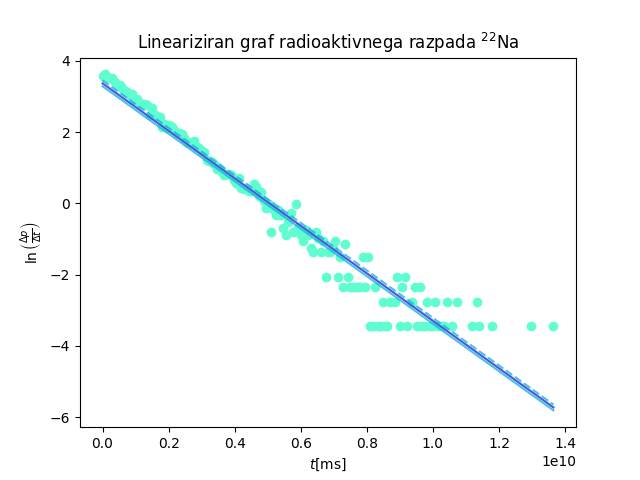
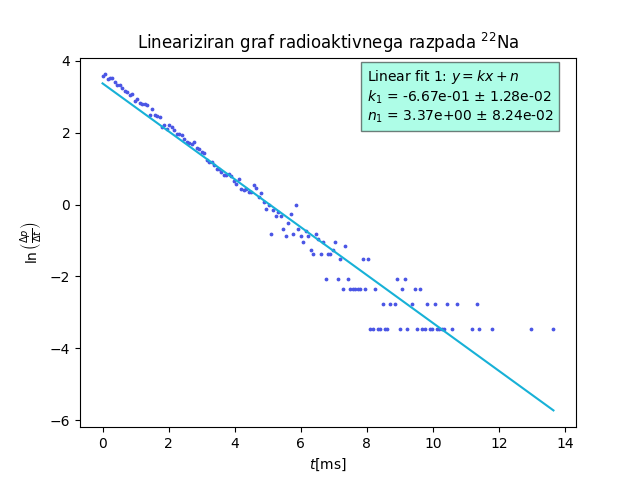
graf radioaktivnega razpada

diff --git a/08gammagamma/source/obdelovanja_08gg.py b/08gammagamma/source/obdelovanja_08gg.py
@@ -58,12 +58,14 @@ plt.close()
 
 casMeritve = 31.6 # sekund
 
-casRadRaz = dataRadRaz[:, 0]
+casRadRaz = dataRadRaz[:, 0] / 1e9
 meritveRadRaz = dataRadRaz[:, 1] / casMeritve # delim s casom zato, da dobim aktivnost
 
 novRadRaz, novCasRadRaz = masking(meritveRadRaz, casRadRaz)
 
 fitparRadRaz, fitcovRadRaz = curve_fit(linear, novCasRadRaz, np.log(novRadRaz))
+
+napake = np.sqrt(np.diag(fitcovRadRaz))
 
 # plotting fit
 # Upoštevam Markov nasvet in naredim osi bolj goste za lepši graf
@@ -71,29 +73,16 @@ fitparRadRaz, fitcovRadRaz = curve_fit(linear, novCasRadRaz, np.log(novRadRaz))
 abscisa = np.linspace(0, novCasRadRaz[-1], num=10000)
 ordinataRadRaz = linear(abscisa, *fitparRadRaz)
 
-plt.plot(abscisa, ordinataRadRaz, color=c1)
-plt.scatter(novCasRadRaz, np.log(novRadRaz), color=c3)
+plt.plot(abscisa, ordinataRadRaz, color=c2)
+plt.scatter(novCasRadRaz, np.log(novRadRaz), color=c1, s=3)
 
-# fill between
+fittext= "Linear fit 1: $y = kx + n$\n$k_1$ = {} ± {}\n$n_1$ = {} ± {}".format(format(fitparRadRaz[0], ".2e"),
+                                                                               format(napake[0], ".2e"),
+                                                                               format(fitparRadRaz[1], ".2e"),
+                                                                               format(napake[1], ".2e"))
 
-vrednostNaklona = fitparRadRaz[0]
-vrednostZacetne = fitparRadRaz[1]
-
-napake = np.sqrt(np.diag(fitcovRadRaz))
-
-# spodnja meja
-
-ordinataRadRazLow = linear(abscisa, fitparRadRaz[0], fitparRadRaz[1] - napake[1])
-
-# zgornja meja
-
-ordinataRadRazUp = linear(abscisa, fitparRadRaz[0], fitparRadRaz[1] + napake[1])
-
-plt.fill_between(abscisa, ordinataRadRazLow, ordinataRadRazUp, color=c2,
-                 alpha=0.05)
-plt.plot(abscisa, ordinataRadRazLow, color=c2, alpha=0.75)
-plt.plot(abscisa, ordinataRadRazUp, color=c2, alpha=0.75, ls='--')
-
+plt.text(8.0, 3.0, fittext, ha='left', va='center', size=10,
+         bbox=dict(facecolor=c3, alpha=0.5))
 
 plt.title(r'Lineariziran graf radioaktivnega razpada $^{22} \mathrm{Na}$')
 plt.xlabel(r'$t [\mathrm{ms}]$')
